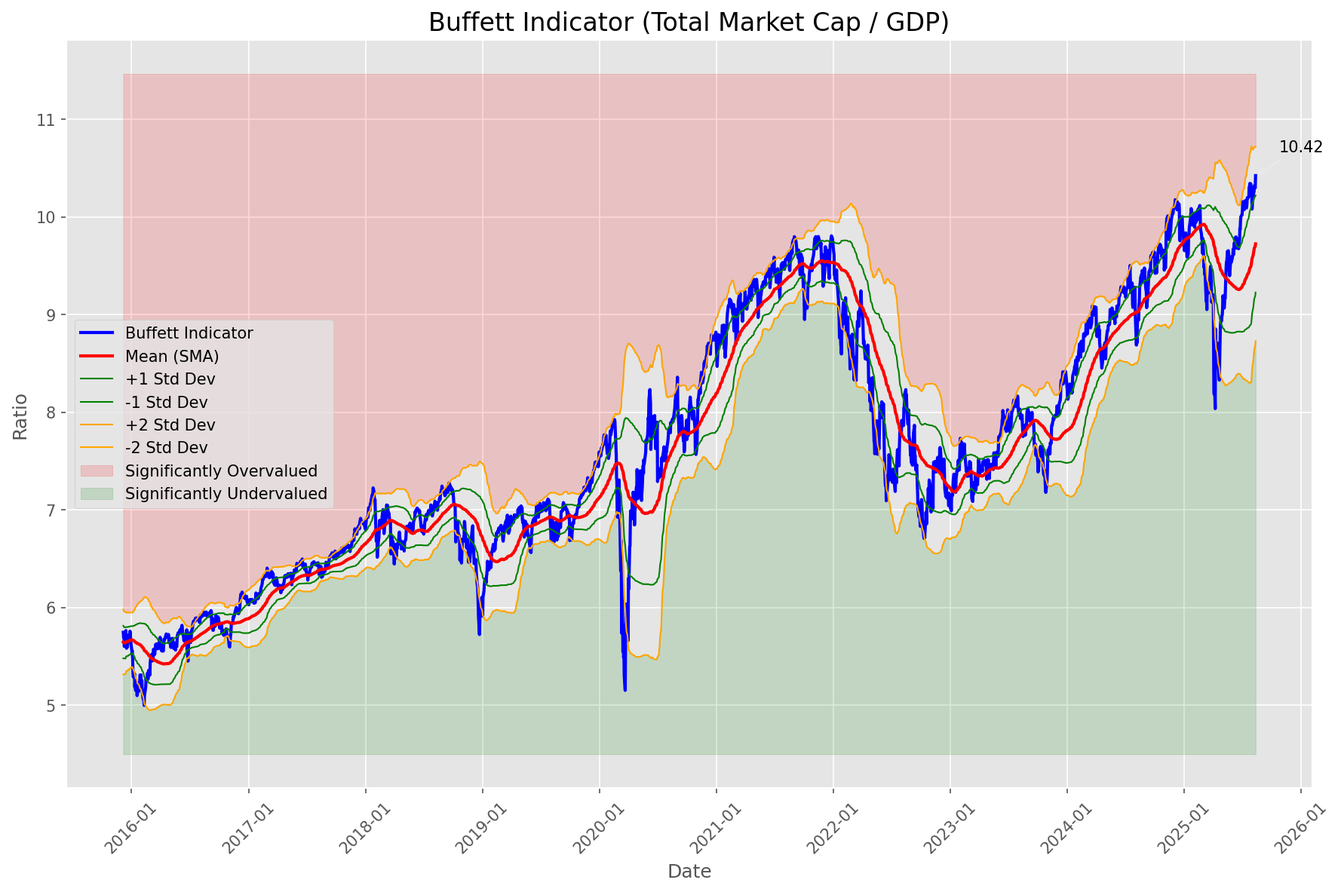
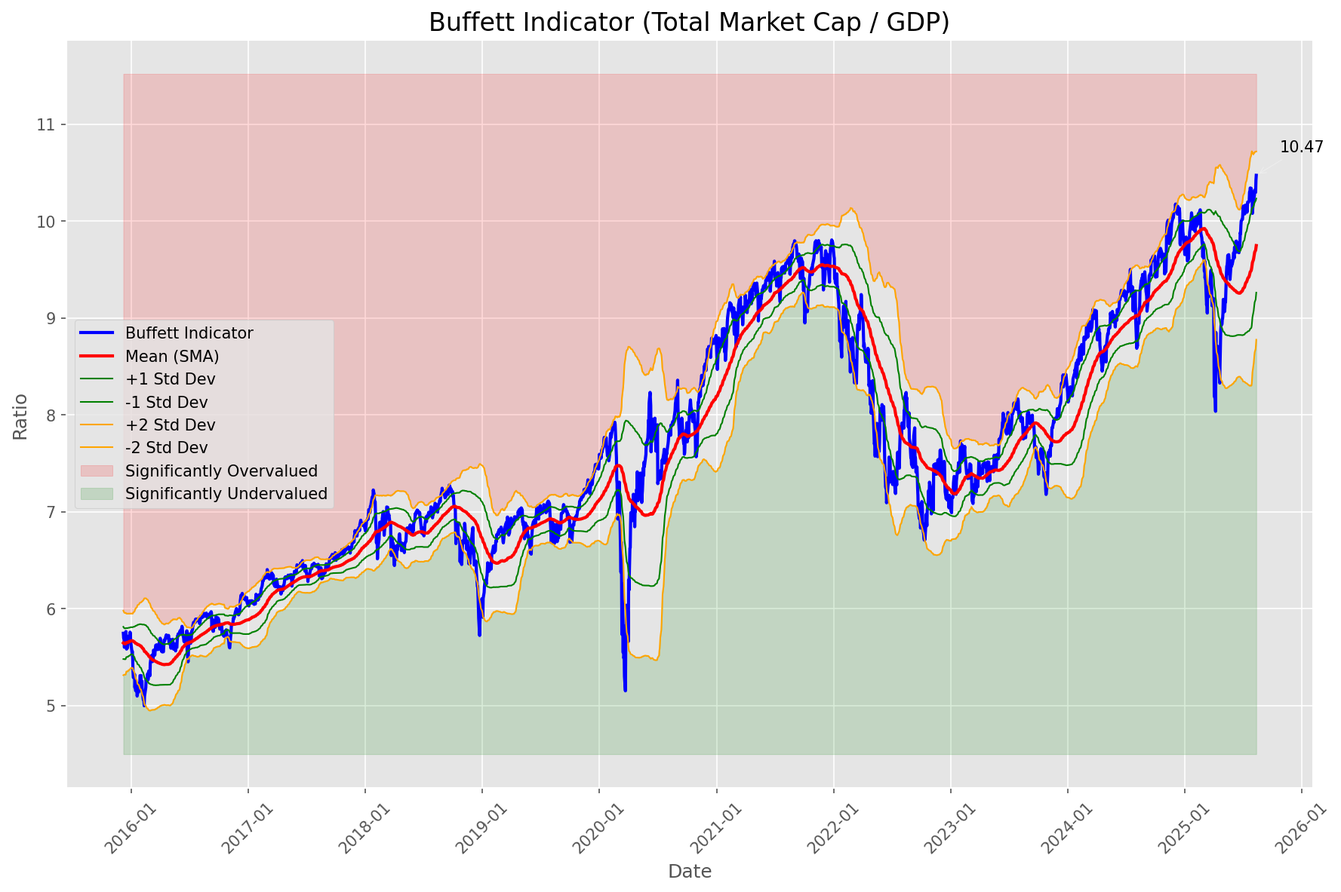
Add market report for 2025-08-14

diff --git a/oneil_relative_strength_report_2025-08-14.md b/oneil_relative_strength_report_2025-08-14.md
@@ -9,11 +9,11 @@
 | Metric | Value |
 |--------|-------|
 | **Market Valuation** | **Overvalued** |
-| **Current Ratio** | 10.47 |
-| **Historical Mean** | 9.72 |
-| **Standard Deviation** | 0.50 |
-| **Z-Score (StdDev from Mean)** | 1.41 |
-| **Total Market Cap** | $317.66 trillion |
+| **Current Ratio** | 10.45 |
+| **Historical Mean** | 9.75 |
+| **Standard Deviation** | 0.49 |
+| **Z-Score (StdDev from Mean)** | 1.49 |
+| **Total Market Cap** | $317.00 trillion |
 | **GDP** | $30.33 trillion |
 
 ## **Market Insights**
@@ -49,41 +49,41 @@ Based on William O'Neil's Relative Strength Methodology
 
 | ETF | Strength | RS Rating | Performance | Above Key MAs | Trend | Sector |
 |-----|----------|-----------|-------------|--------------|-------|--------|
-| [ARKK](https://www.tradingview.com/chart/?symbol=ARKK) | 97.0 | 94.0 | 35.71% | 10d ✓, 50d ✓, 200d ✓ | ↗ | Innovation |
 | [ARKW](https://www.tradingview.com/chart/?symbol=ARKW) | 97.0 | 94.0 | 37.46% | 10d ✓, 50d ✓, 200d ✓ | ↗ | Next Generation Internet |
-| [ARKF](https://www.tradingview.com/chart/?symbol=ARKF) | 96.5 | 93.0 | 35.49% | 10d ✓, 50d ✓, 200d ✓ | ↗ | Fintech Innovation |
+| [ARKF](https://www.tradingview.com/chart/?symbol=ARKF) | 96.5 | 93.0 | 32.31% | 10d ✓, 50d ✓, 200d ✓ | ↗ | Fintech Innovation |
+| [ARKK](https://www.tradingview.com/chart/?symbol=ARKK) | 96.5 | 93.0 | 34.28% | 10d ✓, 50d ✓, 200d ✓ | ↗ | Innovation |
 | [BLOK](https://www.tradingview.com/chart/?symbol=BLOK) | 94.5 | 89.0 | 26.28% | 10d ✓, 50d ✓, 200d ✓ | ↗ | Blockchain & Cryptocurrency |
-| [SLV](https://www.tradingview.com/chart/?symbol=SLV) | 90.0 | 80.0 | 16.94% | 10d ✓, 50d ✓, 200d ✓ | ↗ | Silver |
-| [XLK](https://www.tradingview.com/chart/?symbol=XLK) | 88.5 | 77.0 | 15.34% | 10d ✓, 50d ✓, 200d ✓ | ↗ | Technology |
-| [URA](https://www.tradingview.com/chart/?symbol=URA) | 87.6 | 95.0 | 41.70% | 10d ✗, 50d ✓, 200d ✓ | ↗ | Uranium |
-| [PAVE](https://www.tradingview.com/chart/?symbol=PAVE) | 86.0 | 72.0 | 12.38% | 10d ✓, 50d ✓, 200d ✓ | ↗ | Infrastructure |
-| [AIQ](https://www.tradingview.com/chart/?symbol=AIQ) | 85.5 | 71.0 | 11.99% | 10d ✓, 50d ✓, 200d ✓ | ↗ | Artificial Intelligence & Technology |
-| [JETS](https://www.tradingview.com/chart/?symbol=JETS) | 84.5 | 69.0 | 11.25% | 10d ✓, 50d ✓, 200d ✓ | ↗ | Airlines |
-| [XLC](https://www.tradingview.com/chart/?symbol=XLC) | 84.0 | 68.0 | 10.92% | 10d ✓, 50d ✓, 200d ✓ | ↗ | Communications |
-| [IYZ](https://www.tradingview.com/chart/?symbol=IYZ) | 83.5 | 67.0 | 10.64% | 10d ✓, 50d ✓, 200d ✓ | ↗ | Telecommunications |
-| [KWEB](https://www.tradingview.com/chart/?symbol=KWEB) | 80.5 | 61.0 | 8.51% | 10d ✓, 50d ✓, 200d ✓ | ↗ | Chinese Internet |
-| [XLU](https://www.tradingview.com/chart/?symbol=XLU) | 80.5 | 61.0 | 8.56% | 10d ✓, 50d ✓, 200d ✓ | ↗ | Utilities |
-| [XLI](https://www.tradingview.com/chart/?symbol=XLI) | 79.5 | 59.0 | 7.93% | 10d ✓, 50d ✓, 200d ✓ | ↗ | Industrial |
-| [XLY](https://www.tradingview.com/chart/?symbol=XLY) | 77.5 | 55.0 | 6.77% | 10d ✓, 50d ✓, 200d ✓ | ↗ | Consumer Discretionary |
-| [XLF](https://www.tradingview.com/chart/?symbol=XLF) | 71.5 | 43.0 | 3.29% | 10d ✓, 50d ✓, 200d ✓ | ↗ | Financial |
-| [SOXX](https://www.tradingview.com/chart/?symbol=SOXX) | 71.0 | 82.0 | 18.77% | 10d ✓, 50d ✓, 200d ✓ | ↘ | Semiconductors |
-| [ITB](https://www.tradingview.com/chart/?symbol=ITB) | 68.5 | 77.0 | 15.66% | 10d ✓, 50d ✓, 200d ✓ | ↘ | Home Construction |
-| [ARKG](https://www.tradingview.com/chart/?symbol=ARKG) | 68.0 | 76.0 | 14.57% | 10d ✓, 50d ✓, 200d ✓ | ↘ | Genomics |
-| [IBB](https://www.tradingview.com/chart/?symbol=IBB) | 68.0 | 76.0 | 14.70% | 10d ✓, 50d ✓, 200d ✓ | ↘ | Biotechnology |
-| [DBA](https://www.tradingview.com/chart/?symbol=DBA) | 63.5 | 27.0 | -0.44% | 10d ✓, 50d ✓, 200d ✓ | ↗ | Agriculture |
-| [GLD](https://www.tradingview.com/chart/?symbol=GLD) | 61.6 | 43.0 | 3.26% | 10d ✗, 50d ✓, 200d ✓ | ↗ | Gold |
-| [CIBR](https://www.tradingview.com/chart/?symbol=CIBR) | 61.1 | 42.0 | 2.95% | 10d ✓, 50d ✗, 200d ✓ | ↗ | Cybersecurity |
-| [ICLN](https://www.tradingview.com/chart/?symbol=ICLN) | 59.0 | 58.0 | 7.73% | 10d ✓, 50d ✓, 200d ✓ | ↘ | Clean Energy |
-| [XLB](https://www.tradingview.com/chart/?symbol=XLB) | 56.0 | 52.0 | 5.68% | 10d ✓, 50d ✓, 200d ✓ | ↘ | Materials |
+| [SLV](https://www.tradingview.com/chart/?symbol=SLV) | 90.5 | 81.0 | 17.68% | 10d ✓, 50d ✓, 200d ✓ | ↗ | Silver |
+| [XLK](https://www.tradingview.com/chart/?symbol=XLK) | 88.0 | 76.0 | 14.40% | 10d ✓, 50d ✓, 200d ✓ | ↗ | Technology |
+| [URA](https://www.tradingview.com/chart/?symbol=URA) | 87.6 | 95.0 | 39.75% | 10d ✗, 50d ✓, 200d ✓ | ↗ | Uranium |
+| [JETS](https://www.tradingview.com/chart/?symbol=JETS) | 85.0 | 70.0 | 11.60% | 10d ✓, 50d ✓, 200d ✓ | ↗ | Airlines |
+| [PAVE](https://www.tradingview.com/chart/?symbol=PAVE) | 85.0 | 70.0 | 11.52% | 10d ✓, 50d ✓, 200d ✓ | ↗ | Infrastructure |
+| [IYZ](https://www.tradingview.com/chart/?symbol=IYZ) | 84.0 | 68.0 | 10.64% | 10d ✓, 50d ✓, 200d ✓ | ↗ | Telecommunications |
+| [AIQ](https://www.tradingview.com/chart/?symbol=AIQ) | 83.5 | 67.0 | 10.34% | 10d ✓, 50d ✓, 200d ✓ | ↗ | Artificial Intelligence & Technology |
+| [XLC](https://www.tradingview.com/chart/?symbol=XLC) | 83.5 | 67.0 | 10.10% | 10d ✓, 50d ✓, 200d ✓ | ↗ | Communications |
+| [XLU](https://www.tradingview.com/chart/?symbol=XLU) | 81.5 | 63.0 | 8.88% | 10d ✓, 50d ✓, 200d ✓ | ↗ | Utilities |
+| [XLI](https://www.tradingview.com/chart/?symbol=XLI) | 80.0 | 60.0 | 7.88% | 10d ✓, 50d ✓, 200d ✓ | ↗ | Industrial |
+| [XLY](https://www.tradingview.com/chart/?symbol=XLY) | 76.0 | 52.0 | 5.82% | 10d ✓, 50d ✓, 200d ✓ | ↗ | Consumer Discretionary |
+| [KWEB](https://www.tradingview.com/chart/?symbol=KWEB) | 73.0 | 46.0 | 3.95% | 10d ✓, 50d ✓, 200d ✓ | ↗ | Chinese Internet |
+| [XLF](https://www.tradingview.com/chart/?symbol=XLF) | 72.5 | 45.0 | 3.65% | 10d ✓, 50d ✓, 200d ✓ | ↗ | Financial |
+| [ARKG](https://www.tradingview.com/chart/?symbol=ARKG) | 71.0 | 82.0 | 18.17% | 10d ✓, 50d ✓, 200d ✓ | ↘ | Genomics |
+| [ITB](https://www.tradingview.com/chart/?symbol=ITB) | 70.0 | 80.0 | 16.81% | 10d ✓, 50d ✓, 200d ✓ | ↘ | Home Construction |
+| [IBB](https://www.tradingview.com/chart/?symbol=IBB) | 70.0 | 80.0 | 16.75% | 10d ✓, 50d ✓, 200d ✓ | ↘ | Biotechnology |
+| [SOXX](https://www.tradingview.com/chart/?symbol=SOXX) | 70.0 | 80.0 | 17.17% | 10d ✓, 50d ✓, 200d ✓ | ↘ | Semiconductors |
+| [DBA](https://www.tradingview.com/chart/?symbol=DBA) | 64.0 | 28.0 | -0.44% | 10d ✓, 50d ✓, 200d ✓ | ↗ | Agriculture |
+| [CIBR](https://www.tradingview.com/chart/?symbol=CIBR) | 61.1 | 42.0 | 3.02% | 10d ✓, 50d ✗, 200d ✓ | ↗ | Cybersecurity |
+| [XLB](https://www.tradingview.com/chart/?symbol=XLB) | 54.5 | 49.0 | 4.96% | 10d ✓, 50d ✓, 200d ✓ | ↘ | Materials |
+| [GLD](https://www.tradingview.com/chart/?symbol=GLD) | 54.2 | 48.0 | 4.83% | 10d ✗, 50d ✗, 200d ✓ | ↗ | Gold |
 | [IYT](https://www.tradingview.com/chart/?symbol=IYT) | 52.5 | 45.0 | 3.67% | 10d ✓, 50d ✓, 200d ✓ | ↘ | Transportation |
-| [XLP](https://www.tradingview.com/chart/?symbol=XLP) | 51.5 | 43.0 | 3.37% | 10d ✓, 50d ✓, 200d ✓ | ↘ | Consumer Staples |
-| [TLT](https://www.tradingview.com/chart/?symbol=TLT) | 38.8 | 38.0 | 2.07% | 10d ✓, 50d ✓, 200d ✗ | ↘ | Long-term Treasuries |
-| [IYR](https://www.tradingview.com/chart/?symbol=IYR) | 28.9 | 38.0 | 2.02% | 10d ✓, 50d ✗, 200d ✗ | ↘ | Real Estate |
-| [XLV](https://www.tradingview.com/chart/?symbol=XLV) | 26.9 | 34.0 | 1.08% | 10d ✓, 50d ✗, 200d ✗ | ↘ | Healthcare |
-| [BIL](https://www.tradingview.com/chart/?symbol=BIL) | 24.4 | 29.0 | 0.02% | 10d ✓, 50d ✗, 200d ✗ | ↘ | Short-term Treasuries |
-| [XLE](https://www.tradingview.com/chart/?symbol=XLE) | 23.9 | 28.0 | -0.15% | 10d ✓, 50d ✗, 200d ✗ | ↘ | Energy |
-| [UUP](https://www.tradingview.com/chart/?symbol=UUP) | 21.9 | 24.0 | -1.73% | 10d ✗, 50d ✓, 200d ✗ | ↘ | U.S. Dollar |
-| [DBC](https://www.tradingview.com/chart/?symbol=DBC) | 16.5 | 33.0 | 0.74% | 10d ✗, 50d ✗, 200d ✗ | ↘ | Commodities |
+| [XLP](https://www.tradingview.com/chart/?symbol=XLP) | 52.0 | 44.0 | 3.40% | 10d ✓, 50d ✓, 200d ✓ | ↘ | Consumer Staples |
+| [ICLN](https://www.tradingview.com/chart/?symbol=ICLN) | 45.1 | 50.0 | 5.22% | 10d ✗, 50d ✓, 200d ✓ | ↘ | Clean Energy |
+| [BIL](https://www.tradingview.com/chart/?symbol=BIL) | 44.5 | 29.0 | 0.04% | 10d ✓, 50d ✓, 200d ✓ | ↘ | Short-term Treasuries |
+| [XLV](https://www.tradingview.com/chart/?symbol=XLV) | 31.9 | 44.0 | 3.43% | 10d ✓, 50d ✗, 200d ✗ | ↘ | Healthcare |
+| [TLT](https://www.tradingview.com/chart/?symbol=TLT) | 29.9 | 40.0 | 2.47% | 10d ✗, 50d ✓, 200d ✗ | ↘ | Long-term Treasuries |
+| [XLE](https://www.tradingview.com/chart/?symbol=XLE) | 24.4 | 29.0 | -0.16% | 10d ✓, 50d ✗, 200d ✗ | ↘ | Energy |
+| [UUP](https://www.tradingview.com/chart/?symbol=UUP) | 22.4 | 25.0 | -1.61% | 10d ✗, 50d ✓, 200d ✗ | ↘ | U.S. Dollar |
+| [IYR](https://www.tradingview.com/chart/?symbol=IYR) | 18.5 | 37.0 | 1.92% | 10d ✗, 50d ✗, 200d ✗ | ↘ | Real Estate |
+| [DBC](https://www.tradingview.com/chart/?symbol=DBC) | 18.0 | 36.0 | 1.48% | 10d ✗, 50d ✗, 200d ✗ | ↘ | Commodities |
 
 ### **Sector ETF Performance Interpretation**
 
@@ -98,94 +98,81 @@ This table shows the relative strength metrics for different market sectors base
 
 ### **Current Sector Leadership**
 
-The current market leadership is coming from the following sectors: **Innovation, Next Generation Internet, Fintech Innovation**.
+The current market leadership is coming from the following sectors: **Next Generation Internet, Fintech Innovation, Innovation**.
 
-The **Innovation** sector (represented by **ARKK**) is showing particularly strong relative strength with an RS rating of 94.0 and performance of 35.71% vs. the S&P 500. This sector is trading above its 10-day, 50-day, 200-day moving average(s). Investors should consider focusing on high RS stocks within these leading sectors for potential outperformance.
+The **Next Generation Internet** sector (represented by **ARKW**) is showing particularly strong relative strength with an RS rating of 94.0 and performance of 37.46% vs. the S&P 500. This sector is trading above its 10-day, 50-day, 200-day moving average(s). Investors should consider focusing on high RS stocks within these leading sectors for potential outperformance.
 
 ---
 
 ## **Buy Recommendations**
 
-The following 77 stocks show exceptional relative strength:
+The following 64 stocks show exceptional relative strength:
 
 | RS Rating | Buy Score | Current Price | Chart | Name | Ticker |
 |-----------|-----------|---------------|-------|------|--------|
-| 100 | 100 | $121.13 | [Chart](https://www.tradingview.com/chart/?symbol=CRDO) | Credo Technology Group Holding Ltd Ordinary Shares | CRDO |
-| 100 | 100 | $75.40 | [Chart](https://www.tradingview.com/chart/?symbol=MP) | MP Materials Corp. | MP |
-| 100 | 100 | $68.75 | [Chart](https://www.tradingview.com/chart/?symbol=KTOS) | Kratos Defense & Security Solutions, Inc. | KTOS |
-| 100 | 100 | $204.22 | [Chart](https://www.tradingview.com/chart/?symbol=CLS) | Celestica, Inc. | CLS |
-| 100 | 100 | $70.63 | [Chart](https://www.tradingview.com/chart/?symbol=NBIS) | Nebius Group N.V. Class A Ordinary Shares | NBIS |
+| 100 | 100 | $71.56 | [Chart](https://www.tradingview.com/chart/?symbol=KTOS) | Kratos Defense & Security Solutions, Inc. | KTOS |
+| 100 | 100 | $76.80 | [Chart](https://www.tradingview.com/chart/?symbol=MP) | MP Materials Corp. | MP |
+| 100 | 100 | $44.96 | [Chart](https://www.tradingview.com/chart/?symbol=RKLB) | Rocket Lab Corporation Common Stock | RKLB |
+| 100 | 100 | $69.97 | [Chart](https://www.tradingview.com/chart/?symbol=NBIS) | Nebius Group N.V. Class A Ordinary Shares | NBIS |
 | 99 | 100 | $97.86 | [Chart](https://www.tradingview.com/chart/?symbol=RYTM) | Rhythm Pharmaceuticals, Inc. Common Stock | RYTM |
-| 99 | 100 | $108.62 | [Chart](https://www.tradingview.com/chart/?symbol=HOOD) | Robinhood Markets, Inc. Class A Common Stock | HOOD |
-| 99 | 100 | $25.60 | [Chart](https://www.tradingview.com/chart/?symbol=TME) | Tencent Music Entertainment Group American Depositary Shares, each representing two Class A Ordinary Shares | TME |
+| 98 | 100 | $195.79 | [Chart](https://www.tradingview.com/chart/?symbol=COOP) | Mr. Cooper Group Inc. Common Stock | COOP |
 | 98 | 100 | $380.25 | [Chart](https://www.tradingview.com/chart/?symbol=TLN) | Talen Energy Corporation Common Stock | TLN |
-| 98 | 100 | $202.86 | [Chart](https://www.tradingview.com/chart/?symbol=COOP) | Mr. Cooper Group Inc. Common Stock | COOP |
-| 98 | 100 | $176.48 | [Chart](https://www.tradingview.com/chart/?symbol=FUTU) | Futu Holdings Limited American Depositary Shares | FUTU |
-| 98 | 100 | $25.20 | [Chart](https://www.tradingview.com/chart/?symbol=LQDA) | Liquidia Corporation Common Stock | LQDA |
-| 97 | 100 | $30.24 | [Chart](https://www.tradingview.com/chart/?symbol=GFI) | Gold Fields Ltd ADR | GFI |
-| 97 | 100 | $88.94 | [Chart](https://www.tradingview.com/chart/?symbol=LIF) | Life360, Inc. Common Stock | LIF |
-| 97 | 100 | $44.96 | [Chart](https://www.tradingview.com/chart/?symbol=TTMI) | TTM Technologies Inc | TTMI |
-| 96 | 100 | $68.39 | [Chart](https://www.tradingview.com/chart/?symbol=MRCY) | Mercury Systems Inc. | MRCY |
-| 96 | 100 | $25.13 | [Chart](https://www.tradingview.com/chart/?symbol=ACAD) | Acadia Pharmaceuticals Inc. | ACAD |
-| 96 | 100 | $184.37 | [Chart](https://www.tradingview.com/chart/?symbol=PLTR) | Palantir Technologies Inc. Class A Common Stock | PLTR |
-| 96 | 100 | $100.77 | [Chart](https://www.tradingview.com/chart/?symbol=EBAY) | eBay Inc | EBAY |
+| 98 | 100 | $177.56 | [Chart](https://www.tradingview.com/chart/?symbol=FUTU) | Futu Holdings Limited American Depositary Shares | FUTU |
+| 97 | 100 | $88.07 | [Chart](https://www.tradingview.com/chart/?symbol=LIF) | Life360, Inc. Common Stock | LIF |
+| 97 | 100 | $67.85 | [Chart](https://www.tradingview.com/chart/?symbol=MRCY) | Mercury Systems Inc. | MRCY |
+| 96 | 100 | $98.45 | [Chart](https://www.tradingview.com/chart/?symbol=EBAY) | eBay Inc | EBAY |
+| 96 | 100 | $57.41 | [Chart](https://www.tradingview.com/chart/?symbol=BTI) | British American Tobacco p.l.c. American Depositary Shares, American Depositary Shares, each representing one Ordinary Share | BTI |
+| 96 | 100 | $24.66 | [Chart](https://www.tradingview.com/chart/?symbol=ACAD) | Acadia Pharmaceuticals Inc. | ACAD |
 | 96 | 100 | $99.84 | [Chart](https://www.tradingview.com/chart/?symbol=TPB) | Turning Point Brands, Inc. | TPB |
-| 95 | 100 | $58.57 | [Chart](https://www.tradingview.com/chart/?symbol=GH) | Guardant Health, Inc. Common Stock | GH |
 | 95 | 100 | $53.66 | [Chart](https://www.tradingview.com/chart/?symbol=REVG) | REV Group, Inc. | REVG |
-| 95 | 100 | $57.11 | [Chart](https://www.tradingview.com/chart/?symbol=BTI) | British American Tobacco p.l.c. American Depositary Shares, American Depositary Shares, each representing one Ordinary Share | BTI |
+| 95 | 100 | $31.48 | [Chart](https://www.tradingview.com/chart/?symbol=PAAS) | Pan American Silver Corp. | PAAS |
+| 95 | 100 | $53.91 | [Chart](https://www.tradingview.com/chart/?symbol=SIL) | Global X Silver Miners ETF (NEW) | SIL |
+| 95 | 100 | $183.37 | [Chart](https://www.tradingview.com/chart/?symbol=PLTR) | Palantir Technologies Inc. Class A Common Stock | PLTR |
 | 95 | 100 | $120.34 | [Chart](https://www.tradingview.com/chart/?symbol=SANM) | Sanmina  Corp | SANM |
+| 94 | 100 | $122.16 | [Chart](https://www.tradingview.com/chart/?symbol=PPLT) | abrdn Physical Platinum Shares ETF | PPLT |
+| 94 | 100 | $25.08 | [Chart](https://www.tradingview.com/chart/?symbol=LQDA) | Liquidia Corporation Common Stock | LQDA |
 | 94 | 100 | $162.15 | [Chart](https://www.tradingview.com/chart/?symbol=ARKW) | ARK Next Generation Internet ETF | ARKW |
-| 94 | 100 | $31.66 | [Chart](https://www.tradingview.com/chart/?symbol=PAAS) | Pan American Silver Corp. | PAAS |
-| 94 | 100 | $54.26 | [Chart](https://www.tradingview.com/chart/?symbol=SIL) | Global X Silver Miners ETF (NEW) | SIL |
-| 94 | 100 | $113.53 | [Chart](https://www.tradingview.com/chart/?symbol=TPR) | Tapestry, Inc. Common Stock | TPR |
-| 93 | 100 | $122.16 | [Chart](https://www.tradingview.com/chart/?symbol=PPLT) | abrdn Physical Platinum Shares ETF | PPLT |
-| 93 | 100 | $55.79 | [Chart](https://www.tradingview.com/chart/?symbol=AU) | AngloGold Ashanti plc | AU |
-| 93 | 100 | $55.62 | [Chart](https://www.tradingview.com/chart/?symbol=ARKF) | ARK Fintech Innovation ETF | ARKF |
+| 93 | 100 | $30.81 | [Chart](https://www.tradingview.com/chart/?symbol=OR) | OR Royalties Inc. | OR |
+| 93 | 100 | $54.63 | [Chart](https://www.tradingview.com/chart/?symbol=ARKF) | ARK Fintech Innovation ETF | ARKF |
 | 93 | 100 | $32.95 | [Chart](https://www.tradingview.com/chart/?symbol=IIIV) | i3 Verticals, Inc. Class A Common Stock | IIIV |
-| 92 | 100 | $30.81 | [Chart](https://www.tradingview.com/chart/?symbol=OR) | OR Royalties Inc. | OR |
-| 92 | 100 | $36.17 | [Chart](https://www.tradingview.com/chart/?symbol=DB) | Deutsche Bank Aktiengesellschaft | DB |
 | 92 | 100 | $58.84 | [Chart](https://www.tradingview.com/chart/?symbol=CALX) | CALIX, INC. | CALX |
-| 92 | 100 | $30.86 | [Chart](https://www.tradingview.com/chart/?symbol=SRAD) | Sportradar Group AG Class A Ordinary Shares | SRAD |
+| 92 | 100 | $26.00 | [Chart](https://www.tradingview.com/chart/?symbol=TFPM) | Triple Flag Precious Metals Corp. | TFPM |
+| 92 | 100 | $36.58 | [Chart](https://www.tradingview.com/chart/?symbol=DB) | Deutsche Bank Aktiengesellschaft | DB |
+| 92 | 100 | $30.76 | [Chart](https://www.tradingview.com/chart/?symbol=SRAD) | Sportradar Group AG Class A Ordinary Shares | SRAD |
+| 92 | 100 | $120.77 | [Chart](https://www.tradingview.com/chart/?symbol=SXT) | Sensient Technology Corporation | SXT |
 | 91 | 100 | $28.87 | [Chart](https://www.tradingview.com/chart/?symbol=KAR) | OPENLANE, Inc | KAR |
-| 91 | 100 | $59.99 | [Chart](https://www.tradingview.com/chart/?symbol=VIK) | Viking Holdings Ltd | VIK |
-| 91 | 100 | $120.77 | [Chart](https://www.tradingview.com/chart/?symbol=SXT) | Sensient Technology Corporation | SXT |
-| 91 | 100 | $26.00 | [Chart](https://www.tradingview.com/chart/?symbol=TFPM) | Triple Flag Precious Metals Corp. | TFPM |
-| 90 | 100 | $22.98 | [Chart](https://www.tradingview.com/chart/?symbol=MAG) | MAG Silver Corp. | MAG |
-| 90 | 100 | $109.83 | [Chart](https://www.tradingview.com/chart/?symbol=APH) | Amphenol Corporation | APH |
-| 89 | 100 | $44.75 | [Chart](https://www.tradingview.com/chart/?symbol=LTM) | LATAM Airlines Group S.A. American Depositary Shares (each representing two thousand (2,000) shares of Common Stock) | LTM |
-| 89 | 100 | $22.13 | [Chart](https://www.tradingview.com/chart/?symbol=MIR) | Mirion Technologies, Inc. | MIR |
-| 88 | 100 | $58.07 | [Chart](https://www.tradingview.com/chart/?symbol=GDX) | VanEck Gold Miners ETF | GDX |
-| 88 | 100 | $133.69 | [Chart](https://www.tradingview.com/chart/?symbol=AEM) | Agnico Eagle Mines Ltd. | AEM |
-| 88 | 100 | $39.08 | [Chart](https://www.tradingview.com/chart/?symbol=AS) | Amer Sports, Inc. | AS |
-| 88 | 100 | $164.62 | [Chart](https://www.tradingview.com/chart/?symbol=VSEC) | VSE Corp | VSEC |
-| 87 | 100 | $276.11 | [Chart](https://www.tradingview.com/chart/?symbol=IDCC) | InterDigital, Inc. | IDCC |
-| 89 | 98 | $17.25 | [Chart](https://www.tradingview.com/chart/?symbol=ARLO) | Arlo Technologies, Inc. | ARLO |
+| 91 | 100 | $22.90 | [Chart](https://www.tradingview.com/chart/?symbol=MAG) | MAG Silver Corp. | MAG |
+| 91 | 100 | $59.89 | [Chart](https://www.tradingview.com/chart/?symbol=VIK) | Viking Holdings Ltd | VIK |
+| 89 | 100 | $164.62 | [Chart](https://www.tradingview.com/chart/?symbol=VSEC) | VSE Corp | VSEC |
+| 88 | 100 | $276.11 | [Chart](https://www.tradingview.com/chart/?symbol=IDCC) | InterDigital, Inc. | IDCC |
+| 89 | 99 | $67.54 | [Chart](https://www.tradingview.com/chart/?symbol=MAIN) | Main Street Capital Corporation | MAIN |
+| 89 | 99 | $53.65 | [Chart](https://www.tradingview.com/chart/?symbol=FHI) | Federated Hermes, Inc. | FHI |
+| 89 | 99 | $95.08 | [Chart](https://www.tradingview.com/chart/?symbol=C) | Citigroup Inc. | C |
+| 89 | 99 | $496.79 | [Chart](https://www.tradingview.com/chart/?symbol=CW) | Curtiss-Wright Corp. | CW |
+| 86 | 99 | $119.74 | [Chart](https://www.tradingview.com/chart/?symbol=GILD) | Gilead Sciences Inc | GILD |
 | 88 | 98 | $196.28 | [Chart](https://www.tradingview.com/chart/?symbol=AWI) | Armstrong World Industries, Inc. | AWI |
-| 88 | 98 | $53.65 | [Chart](https://www.tradingview.com/chart/?symbol=FHI) | Federated Hermes, Inc. | FHI |
-| 88 | 98 | $67.54 | [Chart](https://www.tradingview.com/chart/?symbol=MAIN) | Main Street Capital Corporation | MAIN |
-| 88 | 98 | $94.65 | [Chart](https://www.tradingview.com/chart/?symbol=C) | Citigroup Inc. | C |
-| 88 | 98 | $496.79 | [Chart](https://www.tradingview.com/chart/?symbol=CW) | Curtiss-Wright Corp. | CW |
-| 84 | 98 | $20.45 | [Chart](https://www.tradingview.com/chart/?symbol=BCS) | Barclays PLC | BCS |
-| 86 | 97 | $73.04 | [Chart](https://www.tradingview.com/chart/?symbol=GDXJ) | VanEck Junior Gold Miners ETF | GDXJ |
-| 86 | 96 | $49.21 | [Chart](https://www.tradingview.com/chart/?symbol=FAST) | Fastenal Co | FAST |
-| 84 | 96 | $64.78 | [Chart](https://www.tradingview.com/chart/?symbol=CAKE) | Cheesecake Factory (The) | CAKE |
-| 83 | 96 | $166.86 | [Chart](https://www.tradingview.com/chart/?symbol=IRTC) | iRhythm Technologies, Inc | IRTC |
+| 87 | 98 | $21.64 | [Chart](https://www.tradingview.com/chart/?symbol=MIR) | Mirion Technologies, Inc. | MIR |
+| 84 | 98 | $41.08 | [Chart](https://www.tradingview.com/chart/?symbol=AHR) | American Healthcare REIT, Inc. | AHR |
+| 85 | 97 | $64.78 | [Chart](https://www.tradingview.com/chart/?symbol=CAKE) | Cheesecake Factory (The) | CAKE |
+| 85 | 97 | $37.94 | [Chart](https://www.tradingview.com/chart/?symbol=AS) | Amer Sports, Inc. | AS |
+| 85 | 97 | $63.09 | [Chart](https://www.tradingview.com/chart/?symbol=SHLD) | Global X Defense Tech ETF | SHLD |
+| 84 | 97 | $166.86 | [Chart](https://www.tradingview.com/chart/?symbol=IRTC) | iRhythm Technologies, Inc | IRTC |
+| 87 | 96 | $16.97 | [Chart](https://www.tradingview.com/chart/?symbol=ARLO) | Arlo Technologies, Inc. | ARLO |
+| 86 | 96 | $49.08 | [Chart](https://www.tradingview.com/chart/?symbol=FAST) | Fastenal Co | FAST |
+| 85 | 96 | $249.37 | [Chart](https://www.tradingview.com/chart/?symbol=BAP) | Credicorp LTD | BAP |
+| 83 | 96 | $43.31 | [Chart](https://www.tradingview.com/chart/?symbol=LTM) | LATAM Airlines Group S.A. American Depositary Shares (each representing two thousand (2,000) shares of Common Stock) | LTM |
+| 82 | 96 | $20.42 | [Chart](https://www.tradingview.com/chart/?symbol=BCS) | Barclays PLC | BCS |
 | 84 | 95 | $410.61 | [Chart](https://www.tradingview.com/chart/?symbol=RBC) | RBC Bearings Incorporated | RBC |
-| 84 | 95 | $249.37 | [Chart](https://www.tradingview.com/chart/?symbol=BAP) | Credicorp LTD | BAP |
-| 83 | 95 | $62.56 | [Chart](https://www.tradingview.com/chart/?symbol=SHLD) | Global X Defense Tech ETF | SHLD |
+| 83 | 95 | $422.22 | [Chart](https://www.tradingview.com/chart/?symbol=CYBR) | CyberArk Software Ltd. | CYBR |
 | 83 | 95 | $92.35 | [Chart](https://www.tradingview.com/chart/?symbol=LLYVK) | Liberty Media Corporation Series C Liberty Live Common Stock | LLYVK |
-| 82 | 95 | $120.14 | [Chart](https://www.tradingview.com/chart/?symbol=GILD) | Gilead Sciences Inc | GILD |
-| 84 | 94 | $446.40 | [Chart](https://www.tradingview.com/chart/?symbol=APP) | Applovin Corporation Class A Common Stock | APP |
-| 83 | 94 | $24.77 | [Chart](https://www.tradingview.com/chart/?symbol=ING) | ING Groep N.V. American Depositary Shares | ING |
-| 80 | 94 | $40.65 | [Chart](https://www.tradingview.com/chart/?symbol=AHR) | American Healthcare REIT, Inc. | AHR |
-| 82 | 92 | $13.06 | [Chart](https://www.tradingview.com/chart/?symbol=PSLV) | Sprott Physical Silver Trust | PSLV |
+| 82 | 95 | $192.23 | [Chart](https://www.tradingview.com/chart/?symbol=TKO) | TKO Group Holdings, Inc. | TKO |
+| 80 | 93 | $47.97 | [Chart](https://www.tradingview.com/chart/?symbol=EWP) | iShares MSCI Spain ETF | EWP |
+| 82 | 92 | $197.20 | [Chart](https://www.tradingview.com/chart/?symbol=ITA) | iShares U.S. Aerospace & Defense ETF | ITA |
 | 82 | 92 | $28.82 | [Chart](https://www.tradingview.com/chart/?symbol=CPS) | Cooper-Standard Automotive Inc. | CPS |
-| 80 | 92 | $35.84 | [Chart](https://www.tradingview.com/chart/?symbol=APG) | APi Group Corporation | APG |
-| 80 | 92 | $422.82 | [Chart](https://www.tradingview.com/chart/?symbol=CYBR) | CyberArk Software Ltd. | CYBR |
-| 80 | 91 | $69.84 | [Chart](https://www.tradingview.com/chart/?symbol=IBIT) | iShares Bitcoin Trust ETF | IBIT |
-| 80 | 91 | $36.73 | [Chart](https://www.tradingview.com/chart/?symbol=SIVR) | abrdn Physical Silver Shares ETF | SIVR |
-| 80 | 91 | $35.00 | [Chart](https://www.tradingview.com/chart/?symbol=SLV) | iShares Silver Trust | SLV |
-| 80 | 91 | $34.77 | [Chart](https://www.tradingview.com/chart/?symbol=HODL) | VanEck Bitcoin ETF | HODL |
+| 81 | 92 | $36.12 | [Chart](https://www.tradingview.com/chart/?symbol=SIVR) | abrdn Physical Silver Shares ETF | SIVR |
+| 81 | 92 | $24.80 | [Chart](https://www.tradingview.com/chart/?symbol=ING) | ING Groep N.V. American Depositary Shares | ING |
+| 80 | 91 | $38.81 | [Chart](https://www.tradingview.com/chart/?symbol=TDS) | Telephone and Data Systems Inc. | TDS |
+| 80 | 90 | $441.10 | [Chart](https://www.tradingview.com/chart/?symbol=APP) | Applovin Corporation Class A Common Stock | APP |
 | 80 | 90 | $277.27 | [Chart](https://www.tradingview.com/chart/?symbol=WTS) | Watts Water Technologies, Inc. Class A | WTS |
 
 ---
@@ -193,70 +180,99 @@ The following 77 stocks show exceptional relative strength:
 
 ## **Sell Recommendations**
 
-The following 60 stocks show deteriorating relative strength:
+The following 89 stocks show deteriorating relative strength:
 
 | RS Rating | Sell Score | Current Price | Chart | Name | Ticker |
 |-----------|------------|---------------|-------|------|--------|
-| 1 | 100 | $200.49 | [Chart](https://www.tradingview.com/chart/?symbol=LULU) | lululemon athletica inc. | LULU |
-| 1 | 100 | $11.65 | [Chart](https://www.tradingview.com/chart/?symbol=NVDS) | Investment Managers Series Trust II Tradr 1.5X Short NVDA Daily ETF | NVDS |
-| 2 | 100 | $22.61 | [Chart](https://www.tradingview.com/chart/?symbol=TECS) | Direxion Daily Technology Bear 3x Shares | TECS |
+| 1 | 100 | $11.60 | [Chart](https://www.tradingview.com/chart/?symbol=NVDS) | Investment Managers Series Trust II Tradr 1.5X Short NVDA Daily ETF | NVDS |
+| 1 | 100 | $193.26 | [Chart](https://www.tradingview.com/chart/?symbol=LULU) | lululemon athletica inc. | LULU |
+| 2 | 100 | $25.41 | [Chart](https://www.tradingview.com/chart/?symbol=CRI) | Carter's Inc. | CRI |
 | 2 | 100 | $22.52 | [Chart](https://www.tradingview.com/chart/?symbol=ZSL) | ProShares UltraShort Silver | ZSL |
-| 3 | 100 | $26.17 | [Chart](https://www.tradingview.com/chart/?symbol=CRI) | Carter's Inc. | CRI |
+| 2 | 100 | $22.72 | [Chart](https://www.tradingview.com/chart/?symbol=TECS) | Direxion Daily Technology Bear 3x Shares | TECS |
+| 4 | 100 | $20.46 | [Chart](https://www.tradingview.com/chart/?symbol=GAP) | The Gap, Inc. | GAP |
 | 5 | 100 | $23.86 | [Chart](https://www.tradingview.com/chart/?symbol=CRTO) | Criteo S.A. | CRTO |
-| 6 | 100 | $39.51 | [Chart](https://www.tradingview.com/chart/?symbol=SDOW) | ProShares UltraPro Short Dow 30 | SDOW |
-| 6 | 100 | $76.38 | [Chart](https://www.tradingview.com/chart/?symbol=ESTC) | Elastic N.V. | ESTC |
-| 7 | 100 | $17.19 | [Chart](https://www.tradingview.com/chart/?symbol=S) | SentinelOne, Inc. | S |
-| 6 | 99 | $10.99 | [Chart](https://www.tradingview.com/chart/?symbol=PATH) | UiPath, Inc. | PATH |
-| 10 | 99 | $23.52 | [Chart](https://www.tradingview.com/chart/?symbol=DXD) | ProShares UltraShort Dow 30 | DXD |
-| 16 | 99 | $14.26 | [Chart](https://www.tradingview.com/chart/?symbol=VRE) | Veris Residential, Inc. | VRE |
+| 5 | 100 | $23.14 | [Chart](https://www.tradingview.com/chart/?symbol=QID) | ProShares UltraShort QQQ | QID |
+| 6 | 100 | $24.76 | [Chart](https://www.tradingview.com/chart/?symbol=CZR) | Caesars Entertainment, Inc. Common Stock | CZR |
+| 6 | 100 | $75.38 | [Chart](https://www.tradingview.com/chart/?symbol=ESTC) | Elastic N.V. | ESTC |
+| 6 | 100 | $16.59 | [Chart](https://www.tradingview.com/chart/?symbol=S) | SentinelOne, Inc. | S |
+| 6 | 100 | $10.72 | [Chart](https://www.tradingview.com/chart/?symbol=PATH) | UiPath, Inc. | PATH |
+| 7 | 100 | $39.83 | [Chart](https://www.tradingview.com/chart/?symbol=SDOW) | ProShares UltraPro Short Dow 30 | SDOW |
+| 8 | 100 | $28.68 | [Chart](https://www.tradingview.com/chart/?symbol=BBWI) | Bath & Body Works, Inc. | BBWI |
+| 11 | 100 | $23.65 | [Chart](https://www.tradingview.com/chart/?symbol=DXD) | ProShares UltraShort Dow 30 | DXD |
+| 13 | 100 | $12.28 | [Chart](https://www.tradingview.com/chart/?symbol=NU) | Nu Holdings Ltd. | NU |
+| 18 | 100 | $47.27 | [Chart](https://www.tradingview.com/chart/?symbol=EDU) | New Oriental Education and Technology Group, Inc. American Depositary Shares (each representing ten (10) Common Shares) | EDU |
+| 3 | 99 | $47.03 | [Chart](https://www.tradingview.com/chart/?symbol=CPRT) | Copart Inc | CPRT |
+| 7 | 99 | $30.73 | [Chart](https://www.tradingview.com/chart/?symbol=DAR) | DARLING INGREDIENTS INC. | DAR |
 | 16 | 99 | $16.72 | [Chart](https://www.tradingview.com/chart/?symbol=CTO) | CTO Realty Growth, Inc. | CTO |
-| 17 | 99 | $12.37 | [Chart](https://www.tradingview.com/chart/?symbol=NU) | Nu Holdings Ltd. | NU |
+| 16 | 99 | $14.26 | [Chart](https://www.tradingview.com/chart/?symbol=VRE) | Veris Residential, Inc. | VRE |
 | 10 | 98 | $16.34 | [Chart](https://www.tradingview.com/chart/?symbol=BTAL) | AGF U.S. Market Neutral Anti-Beta Fund | BTAL |
-| 10 | 98 | $29.60 | [Chart](https://www.tradingview.com/chart/?symbol=BBWI) | Bath & Body Works, Inc. | BBWI |
-| 13 | 97 | $72.65 | [Chart](https://www.tradingview.com/chart/?symbol=EXPO) | Exponent Inc | EXPO |
-| 19 | 97 | $46.79 | [Chart](https://www.tradingview.com/chart/?symbol=EDU) | New Oriental Education and Technology Group, Inc. American Depositary Shares (each representing ten (10) Common Shares) | EDU |
-| 13 | 96 | $38.35 | [Chart](https://www.tradingview.com/chart/?symbol=SH) | ProShares Short S&P500 | SH |
-| 15 | 96 | $37.44 | [Chart](https://www.tradingview.com/chart/?symbol=KSA) | iShares MSCI Saudi Arabia ETF | KSA |
-| 14 | 94 | $38.50 | [Chart](https://www.tradingview.com/chart/?symbol=UDR) | UDR, Inc. | UDR |
-| 9 | 93 | $32.05 | [Chart](https://www.tradingview.com/chart/?symbol=DAR) | DARLING INGREDIENTS INC. | DAR |
-| 11 | 93 | $29.06 | [Chart](https://www.tradingview.com/chart/?symbol=CNX) | CNX Resources Corporation | CNX |
-| 11 | 93 | $32.24 | [Chart](https://www.tradingview.com/chart/?symbol=PSQ) | ProShares Short QQQ | PSQ |
-| 15 | 93 | $34.89 | [Chart](https://www.tradingview.com/chart/?symbol=AMH) | AMERICAN HOMES 4 RENT | AMH |
+| 5 | 97 | $234.12 | [Chart](https://www.tradingview.com/chart/?symbol=CRM) | Salesforce, Inc. | CRM |
+| 10 | 97 | $31.27 | [Chart](https://www.tradingview.com/chart/?symbol=JD) | JD.com, Inc. | JD |
+| 14 | 97 | $38.41 | [Chart](https://www.tradingview.com/chart/?symbol=SH) | ProShares Short S&P500 | SH |
+| 15 | 97 | $38.09 | [Chart](https://www.tradingview.com/chart/?symbol=UDR) | UDR, Inc. | UDR |
+| 9 | 96 | $74.70 | [Chart](https://www.tradingview.com/chart/?symbol=OKE) | Oneok, Inc. | OKE |
+| 11 | 96 | $29.11 | [Chart](https://www.tradingview.com/chart/?symbol=CNX) | CNX Resources Corporation | CNX |
+| 14 | 96 | $72.65 | [Chart](https://www.tradingview.com/chart/?symbol=EXPO) | Exponent Inc | EXPO |
+| 12 | 95 | $30.00 | [Chart](https://www.tradingview.com/chart/?symbol=FORM) | FormFactor Inc. | FORM |
+| 12 | 95 | $32.29 | [Chart](https://www.tradingview.com/chart/?symbol=PSQ) | ProShares Short QQQ | PSQ |
+| 15 | 95 | $34.58 | [Chart](https://www.tradingview.com/chart/?symbol=AMH) | AMERICAN HOMES 4 RENT | AMH |
+| 16 | 95 | $37.44 | [Chart](https://www.tradingview.com/chart/?symbol=KSA) | iShares MSCI Saudi Arabia ETF | KSA |
+| 11 | 94 | $48.49 | [Chart](https://www.tradingview.com/chart/?symbol=BIRK) | Birkenstock Holding plc | BIRK |
+| 13 | 94 | $32.82 | [Chart](https://www.tradingview.com/chart/?symbol=SLB) | Schlumberger Limited | SLB |
+| 14 | 94 | $63.46 | [Chart](https://www.tradingview.com/chart/?symbol=EQR) | Equity Residential | EQR |
+| 14 | 94 | $29.69 | [Chart](https://www.tradingview.com/chart/?symbol=SEE) | Sealed Air Corp. | SEE |
 | 18 | 93 | $25.47 | [Chart](https://www.tradingview.com/chart/?symbol=FCPT) | Four Corners Property Trust, Inc. | FCPT |
-| 14 | 92 | $13.73 | [Chart](https://www.tradingview.com/chart/?symbol=EWTX) | Edgewise Therapeutics, Inc. Common Stock | EWTX |
-| 21 | 91 | $12.33 | [Chart](https://www.tradingview.com/chart/?symbol=WSR) | Whitestone REIT | WSR |
+| 17 | 92 | $43.70 | [Chart](https://www.tradingview.com/chart/?symbol=SW) | Smurfit Westrock plc | SW |
+| 13 | 91 | $105.55 | [Chart](https://www.tradingview.com/chart/?symbol=CPT) | Camden Property Trust | CPT |
+| 15 | 91 | $13.73 | [Chart](https://www.tradingview.com/chart/?symbol=EWTX) | Edgewise Therapeutics, Inc. Common Stock | EWTX |
+| 18 | 91 | $25.25 | [Chart](https://www.tradingview.com/chart/?symbol=DOG) | ProShares Short Dow30 | DOG |
 | 12 | 90 | $784.00 | [Chart](https://www.tradingview.com/chart/?symbol=EQIX) | Equinix, Inc. Common Stock REIT | EQIX |
-| 15 | 90 | $50.23 | [Chart](https://www.tradingview.com/chart/?symbol=BIRK) | Birkenstock Holding plc | BIRK |
-| 18 | 90 | $12.26 | [Chart](https://www.tradingview.com/chart/?symbol=PMT) | PennyMac Mortgage Investment Trust | PMT |
-| 22 | 89 | $37.80 | [Chart](https://www.tradingview.com/chart/?symbol=FLIN) | Franklin FTSE India ETF | FLIN |
-| 17 | 88 | $25.18 | [Chart](https://www.tradingview.com/chart/?symbol=DOG) | ProShares Short Dow30 | DOG |
-| 19 | 87 | $164.18 | [Chart](https://www.tradingview.com/chart/?symbol=EGP) | EastGroup Properties Inc. | EGP |
+| 17 | 90 | $91.14 | [Chart](https://www.tradingview.com/chart/?symbol=IRM) | Iron Mountain Inc. | IRM |
+| 22 | 90 | $12.33 | [Chart](https://www.tradingview.com/chart/?symbol=WSR) | Whitestone REIT | WSR |
+| 19 | 89 | $12.26 | [Chart](https://www.tradingview.com/chart/?symbol=PMT) | PennyMac Mortgage Investment Trust | PMT |
+| 24 | 89 | $22.66 | [Chart](https://www.tradingview.com/chart/?symbol=CURB) | Curbline Properties Corp. | CURB |
+| 18 | 88 | $32.76 | [Chart](https://www.tradingview.com/chart/?symbol=CMCSA) | Comcast Corp | CMCSA |
+| 18 | 88 | $29.75 | [Chart](https://www.tradingview.com/chart/?symbol=CNQ) | Canadian Natural Resources Limited | CNQ |
+| 19 | 88 | $77.73 | [Chart](https://www.tradingview.com/chart/?symbol=ENTG) | Entegris Inc | ENTG |
+| 23 | 88 | $37.80 | [Chart](https://www.tradingview.com/chart/?symbol=FLIN) | Franklin FTSE India ETF | FLIN |
+| 25 | 88 | $15.42 | [Chart](https://www.tradingview.com/chart/?symbol=FXN) | First Trust Energy AlphaDEX Fund | FXN |
 | 19 | 87 | $13.18 | [Chart](https://www.tradingview.com/chart/?symbol=NAVI) | Navient Corporation | NAVI |
-| 19 | 87 | $37.81 | [Chart](https://www.tradingview.com/chart/?symbol=VNO) | Vornado Realty Trust | VNO |
+| 20 | 87 | $44.31 | [Chart](https://www.tradingview.com/chart/?symbol=EPI) | WisdomTree India Earnings Fund ETF | EPI |
+| 22 | 87 | $104.51 | [Chart](https://www.tradingview.com/chart/?symbol=PLD) | PROLOGIS, INC. | PLD |
+| 20 | 86 | $37.81 | [Chart](https://www.tradingview.com/chart/?symbol=VNO) | Vornado Realty Trust | VNO |
 | 20 | 86 | $49.02 | [Chart](https://www.tradingview.com/chart/?symbol=FR) | First Industrial Realty Trust, Inc. | FR |
-| 25 | 86 | $15.54 | [Chart](https://www.tradingview.com/chart/?symbol=FXN) | First Trust Energy AlphaDEX Fund | FXN |
-| 21 | 85 | $106.19 | [Chart](https://www.tradingview.com/chart/?symbol=PLD) | PROLOGIS, INC. | PLD |
-| 23 | 85 | $36.44 | [Chart](https://www.tradingview.com/chart/?symbol=PBA) | PEMBINA PIPELINE CORPORATION | PBA |
-| 22 | 83 | $122.58 | [Chart](https://www.tradingview.com/chart/?symbol=PSX) | PHILLIPS 66 | PSX |
-| 20 | 81 | $275.04 | [Chart](https://www.tradingview.com/chart/?symbol=CB) | Chubb Limited | CB |
-| 21 | 81 | $30.45 | [Chart](https://www.tradingview.com/chart/?symbol=EPRT) | Essential Properties Realty Trust, Inc. | EPRT |
-| 22 | 81 | $44.73 | [Chart](https://www.tradingview.com/chart/?symbol=EPI) | WisdomTree India Earnings Fund ETF | EPI |
-| 27 | 81 | $17.14 | [Chart](https://www.tradingview.com/chart/?symbol=DOC) | Healthpeak Properties, Inc. | DOC |
-| 21 | 80 | $15.86 | [Chart](https://www.tradingview.com/chart/?symbol=MARA) | MARA Holdings, Inc. Common Stock | MARA |
-| 26 | 80 | $12.17 | [Chart](https://www.tradingview.com/chart/?symbol=RQI) | COHEN & STEERS QUALITY INCOME REALTY FUND, INC. COMMON SHARES | RQI |
-| 27 | 80 | $22.18 | [Chart](https://www.tradingview.com/chart/?symbol=UCO) | ProShares Ultra Bloomberg Crude Oil | UCO |
+| 20 | 86 | $164.18 | [Chart](https://www.tradingview.com/chart/?symbol=EGP) | EastGroup Properties Inc. | EGP |
+| 21 | 86 | $120.64 | [Chart](https://www.tradingview.com/chart/?symbol=PSX) | PHILLIPS 66 | PSX |
+| 23 | 85 | $154.31 | [Chart](https://www.tradingview.com/chart/?symbol=PG) | Procter & Gamble Company | PG |
+| 17 | 84 | $47.28 | [Chart](https://www.tradingview.com/chart/?symbol=IP) | International Paper Co. | IP |
+| 19 | 84 | $15.10 | [Chart](https://www.tradingview.com/chart/?symbol=MARA) | MARA Holdings, Inc. Common Stock | MARA |
+| 19 | 84 | $69.01 | [Chart](https://www.tradingview.com/chart/?symbol=PYPL) | PayPal Holdings, Inc. Common Stock | PYPL |
+| 23 | 84 | $28.50 | [Chart](https://www.tradingview.com/chart/?symbol=HRL) | Hormel Foods Corporation | HRL |
+| 24 | 84 | $36.44 | [Chart](https://www.tradingview.com/chart/?symbol=PBA) | PEMBINA PIPELINE CORPORATION | PBA |
+| 28 | 84 | $25.94 | [Chart](https://www.tradingview.com/chart/?symbol=WY) | Weyerhaeuser Company | WY |
+| 23 | 83 | $85.41 | [Chart](https://www.tradingview.com/chart/?symbol=CL) | Colgate-Palmolive Company | CL |
+| 24 | 83 | $22.37 | [Chart](https://www.tradingview.com/chart/?symbol=PBF) | PBF ENERGY INC. | PBF |
+| 27 | 82 | $14.80 | [Chart](https://www.tradingview.com/chart/?symbol=GBDC) | Golub Capital BDC, Inc. | GBDC |
+| 28 | 82 | $16.93 | [Chart](https://www.tradingview.com/chart/?symbol=DOC) | Healthpeak Properties, Inc. | DOC |
+| 24 | 81 | $276.11 | [Chart](https://www.tradingview.com/chart/?symbol=CB) | Chubb Limited | CB |
+| 22 | 80 | $30.45 | [Chart](https://www.tradingview.com/chart/?symbol=EPRT) | Essential Properties Realty Trust, Inc. | EPRT |
+| 21 | 79 | $67.69 | [Chart](https://www.tradingview.com/chart/?symbol=HSIC) | Henry Schein Inc | HSIC |
+| 27 | 79 | $12.17 | [Chart](https://www.tradingview.com/chart/?symbol=RQI) | COHEN & STEERS QUALITY INCOME REALTY FUND, INC. COMMON SHARES | RQI |
+| 28 | 79 | $133.98 | [Chart](https://www.tradingview.com/chart/?symbol=VLO) | Valero Energy Corporation | VLO |
 | 22 | 78 | $219.39 | [Chart](https://www.tradingview.com/chart/?symbol=SBAC) | SBA Communications Corp | SBAC |
-| 26 | 78 | $72.27 | [Chart](https://www.tradingview.com/chart/?symbol=ADC) | Agree Realty Corporation | ADC |
-| 29 | 78 | $14.89 | [Chart](https://www.tradingview.com/chart/?symbol=GBDC) | Golub Capital BDC, Inc. | GBDC |
-| 30 | 78 | $56.64 | [Chart](https://www.tradingview.com/chart/?symbol=USRT) | iShares Core U.S. REIT ETF | USRT |
+| 23 | 78 | $14.30 | [Chart](https://www.tradingview.com/chart/?symbol=OBDC) | Blue Owl Capital Corporation | OBDC |
+| 27 | 77 | $72.27 | [Chart](https://www.tradingview.com/chart/?symbol=ADC) | Agree Realty Corporation | ADC |
+| 27 | 77 | $71.74 | [Chart](https://www.tradingview.com/chart/?symbol=NEE) | NextEra Energy, Inc. | NEE |
+| 31 | 77 | $56.64 | [Chart](https://www.tradingview.com/chart/?symbol=USRT) | iShares Core U.S. REIT ETF | USRT |
+| 31 | 77 | $21.18 | [Chart](https://www.tradingview.com/chart/?symbol=KIM) | Kimco Realty Corp. | KIM |
 | 34 | 77 | $14.50 | [Chart](https://www.tradingview.com/chart/?symbol=MNR) | Mach Natural Resources LP Common Units representing Limited Partner Interests | MNR |
-| 29 | 76 | $91.57 | [Chart](https://www.tradingview.com/chart/?symbol=BIL) | SPDR Bloomberg 1-3 Month T-Bill ETF | BIL |
-| 33 | 72 | $21.75 | [Chart](https://www.tradingview.com/chart/?symbol=DBC) | Invesco DB Commodity Index Tracking Fund | DBC |
-| 30 | 71 | $36.01 | [Chart](https://www.tradingview.com/chart/?symbol=FFIN) | First Financial Bankshares Inc | FFIN |
-| 33 | 71 | $136.15 | [Chart](https://www.tradingview.com/chart/?symbol=VLO) | Valero Energy Corporation | VLO |
+| 34 | 72 | $53.50 | [Chart](https://www.tradingview.com/chart/?symbol=BALL) | Ball Corporation | BALL |
+| 36 | 71 | $88.91 | [Chart](https://www.tradingview.com/chart/?symbol=VNQ) | Vanguard Real Estate ETF | VNQ |
+| 31 | 70 | $36.01 | [Chart](https://www.tradingview.com/chart/?symbol=FFIN) | First Financial Bankshares Inc | FFIN |
+| 36 | 70 | $21.80 | [Chart](https://www.tradingview.com/chart/?symbol=DBC) | Invesco DB Commodity Index Tracking Fund | DBC |
 | 36 | 69 | $27.25 | [Chart](https://www.tradingview.com/chart/?symbol=FREL) | Fidelity MSCI Real Estate Index ETF | FREL |
-| 36 | 68 | $89.80 | [Chart](https://www.tradingview.com/chart/?symbol=VNQ) | Vanguard Real Estate ETF | VNQ |
-| 37 | 64 | $31.98 | [Chart](https://www.tradingview.com/chart/?symbol=SRRK) | Scholar Rock Holding Corporation Common Stock | SRRK |
+| 36 | 68 | $15.74 | [Chart](https://www.tradingview.com/chart/?symbol=HST) | Host Hotels & Resorts, Inc. | HST |
+| 38 | 62 | $190.98 | [Chart](https://www.tradingview.com/chart/?symbol=TXN) | Texas Instruments Incorporated | TXN |
 
 ## **Methodology**
 
